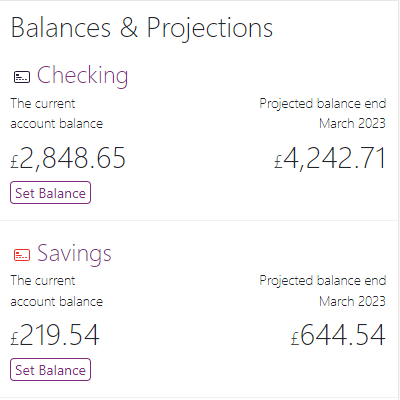
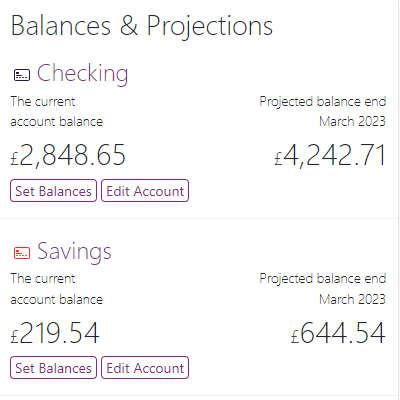
Set balances and new images
- Image updates
- Added a new edit button to replace the old set balance button
- Corrected a link
- Set balances work

diff --git a/app/Http/Controllers/BudgetAccount.php b/app/Http/Controllers/BudgetAccount.php
@@ -4,6 +4,7 @@ declare(strict_types=1);
 namespace App\Http\Controllers;
 
 use App\Actions\Budget\Account\Create;
+use App\Actions\Budget\Account\SetBalances;
 use App\Actions\Budget\Account\Update;
 use Illuminate\Http\Request;
 
@@ -100,6 +101,33 @@ class BudgetAccount extends Controller
                 'requests' => $this->api->requests(),
             ]
         );
+    }
+
+    public function setBalancesProcess(Request $request)
+    {
+        $this->bootstrap($request);
+
+        $action = new SetBalances();
+        $result = $action(
+            $this->api,
+            $this->resource_type_id,
+            $this->resource_id,
+            $request->all()
+        );
+
+        if ($result === 204) {
+            return redirect()->route('home')
+                ->with('status', 'balances-updated');
+        }
+
+        if ($result === 422) {
+            return redirect()
+                ->route('budget.account.set-balances')
+                ->withInput()
+                ->with('validation.errors', $action->getValidationErrors());
+        }
+
+        abort($result, $action->getMessage());
     }
 
     public function update(Request $request, $account_id)

diff --git a/resources/views/components/budget.blade.php b/resources/views/components/budget.blade.php
@@ -387,8 +387,11 @@
                         </div>
                         @endif
                         <div class="col-12">
-                            <a class="btn btn-sm btn-outline-primary px-1 py-0" href="{{ route('budget.account.set-balances') }}" title="Set balance for {{ $__account->name() }}">
-                                Set Balance
+                            <a class="btn btn-sm btn-outline-primary px-1 py-0" href="{{ route('budget.account.set-balances') }}" title="Set account balances">
+                                Set Balances
+                            </a>
+                            <a class="btn btn-sm btn-outline-primary px-1 py-0" href="{{ route('budget.account.update', ['account_id' => $__account->id()]) }}" title="Edit account details">
+                                Edit Account
                             </a>
                         </div>
                     </div>

diff --git a/resources/views/components/offcanvas.blade.php b/resources/views/components/offcanvas.blade.php
@@ -42,7 +42,7 @@
 
                         <ul class="navbar-nav justify-content-end flex-grow-1 ps-4 pe-3">
                             <li class="nav-item">
-                                <a class="nav-link @if($active === 'account') active @endif" href="{{ route('account.update-profile') }}" title="Visit your Account">Account Overview</a>
+                                <a class="nav-link @if($active === 'account') active @endif" href="{{ route('account.index') }}" title="Visit your Account">Account Overview</a>
                             </li>
                             <li class="nav-item">
                                 <a class="nav-link @if($active === 'account.update-profile') active @endif" href="{{ route('account.update-profile') }}" title="Update your profile">Update Profile</a>

diff --git a/resources/views/workflow.blade.php b/resources/views/workflow.blade.php
@@ -84,7 +84,7 @@
         <div class="container col-xxl-8 px-4 py-5">
             <div class="row flex-lg-row-reverse align-items-center g-5 py-5">
                 <div class="col-10 col-sm-8 col-lg-6">
-                    <img src="{{ asset('images/workflow/update-balances.png') }}" class="shadow d-block mx-lg-auto img-fluid" alt="Shot of account balances and edit icons" width="400" height="400" loading="lazy">
+                    <img src="{{ asset('images/workflow/update-balances.png') }}" class="shadow d-block mx-lg-auto img-fluid" alt="Shot of account update balances screen" width="400" height="400" loading="lazy">
                 </div>
                 <div class="col-lg-6">
                     <h1 class="display-5 fw-bold lh-1 mb-3">Step 1: Update Your balances</h1>

diff --git a/resources/views/home.blade.php b/resources/views/home.blade.php
@@ -56,7 +56,7 @@
             @if ($has_budget === true && $has_accounts === true && $demo === false)
             <div class="alert alert-dark mt-2" role="alert">
                 <h4 class="alert-heading">Up to Date?</h4>
-                <p class="mb-0">Have you updated your account balances, use the "Edit Account" buttons to
+                <p class="mb-0">Have you updated your account balances? Use the "<a href="{{ route('budget.account.set-balances') }}">Set Balances</a>" buttons to
                     set the balance for today?</p>
             </div>
             @endif

diff --git a/routes/web.php b/routes/web.php
@@ -156,6 +156,11 @@ Route::group(
             [BudgetAccount::class, 'setBalances']
         )->name('budget.account.set-balances');
 
+        Route::post(
+            '/budget/account/set-balances',
+            [BudgetAccount::class, 'setBalancesProcess']
+        )->name('budget.account.set-balances.process');
+
         Route::get(
             '/budget/account/{account_id}/edit',
             [BudgetAccount::class, 'update']

diff --git a/resources/views/budget/account/set-balances.blade.php b/resources/views/budget/account/set-balances.blade.php
@@ -17,7 +17,7 @@
         <div class="col-lg-10 col-xl-9 mx-auto p-3">
             <div class="row">
                 <div class="col-12 col-lg-5 mx-auto p-2">
-                    <form action="" method="POST" class="row g-2">
+                    <form action="{{ route('budget.account.set-balances.process') }}" method="POST" class="row g-2">
 
                         @csrf
 
